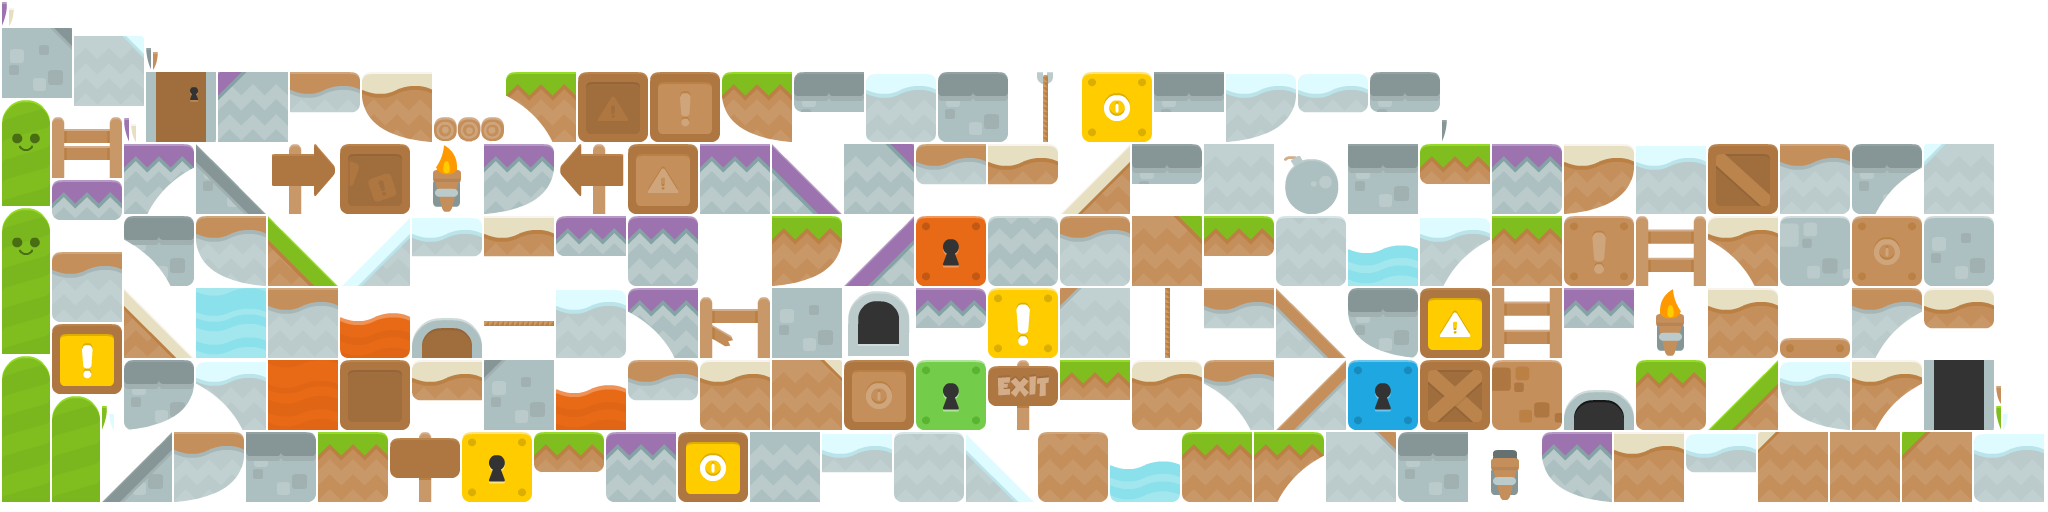
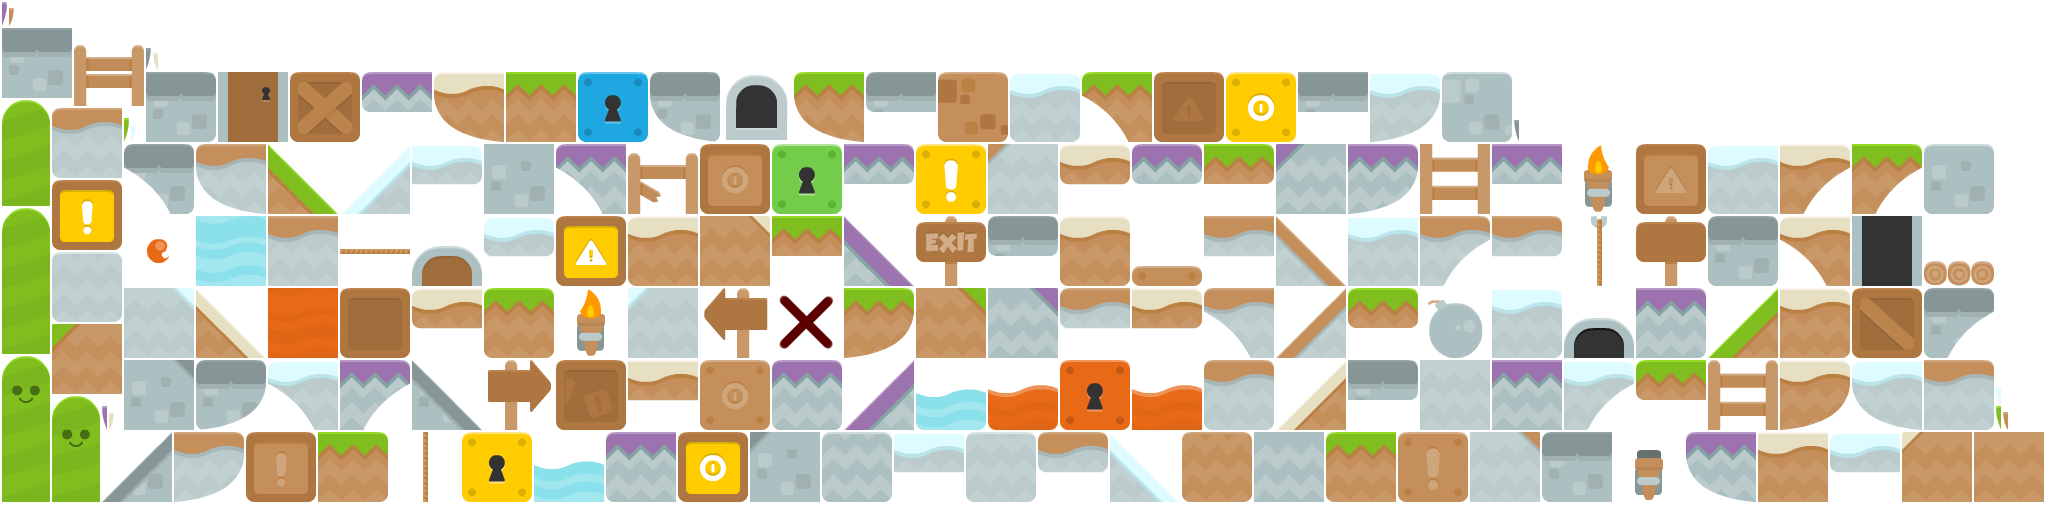
Fix graphics

diff --git a/core/src/com/gdx/uch2/ui/PlacementScreen.java b/core/src/com/gdx/uch2/ui/PlacementScreen.java
@@ -131,7 +131,8 @@ public class PlacementScreen extends ScreenAdapter implements InputProcessor {
             message.setText("Place an item on the map\n\n\n");
             if (mousePosition != null
                     && ((world.getLevel().getBlocks()[(int) mousePosition.x][(int) mousePosition.y] == null && blockType != Block.Type.ANTIBLOCK)
-                    || (world.getLevel().getBlocks()[(int) mousePosition.x][(int) mousePosition.y] != null
+                    || (blockType == Block.Type.ANTIBLOCK
+                    && world.getLevel().getBlocks()[(int) mousePosition.x][(int) mousePosition.y] != null
                     && world.getLevel().getBlocks()[(int) mousePosition.x][(int) mousePosition.y].getType() != Block.Type.PROTECTED_AREA))) {
                 renderer.renderBlock(blockType, mousePosition);
             }

diff --git a/core/src/com/gdx/uch2/view/WorldRenderer.java b/core/src/com/gdx/uch2/view/WorldRenderer.java
@@ -132,7 +132,7 @@ public class WorldRenderer {
         spawnTexture = blocksAtlas.findRegion("signRight");
         finishTexture = blocksAtlas.findRegion("signExit");
         protectedArea = blocksAtlas.findRegion("castleCenter");
-        bomb = blocksAtlas.findRegion("bomb");
+        bomb = blocksAtlas.findRegion("antiblock");
 
         Array<TextureAtlas.AtlasRegion> idleRightFrames = new Array<TextureAtlas.AtlasRegion>();
         Array<TextureAtlas.AtlasRegion> idleLeftFrames = new Array<TextureAtlas.AtlasRegion>();
